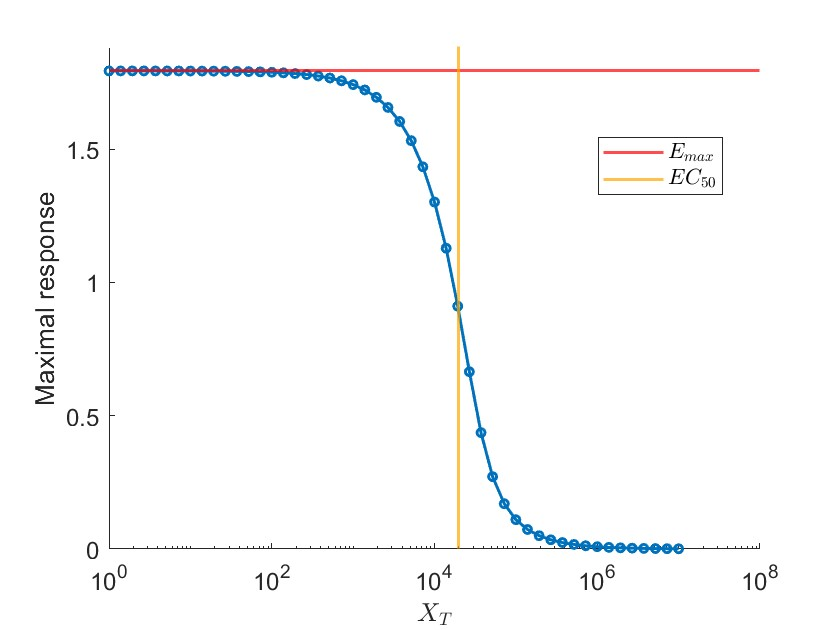
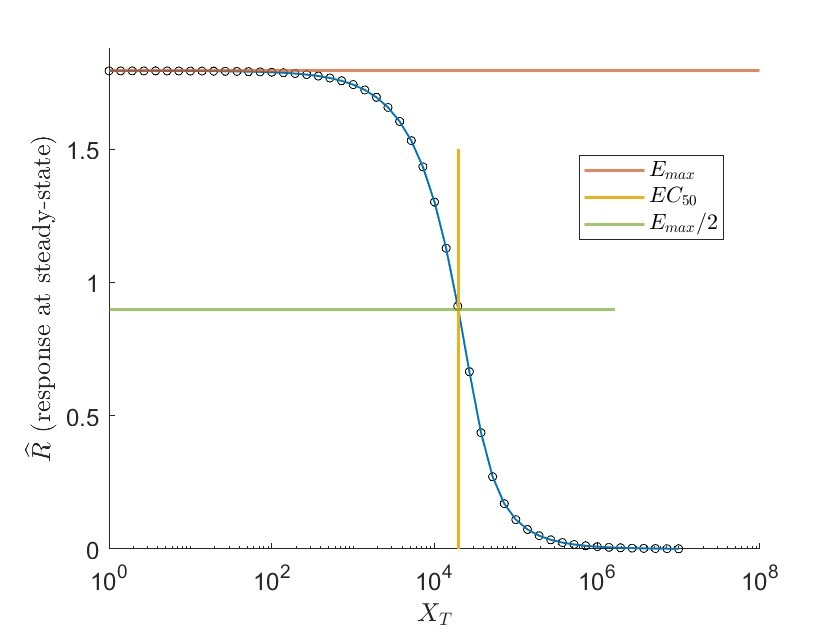
n

diff --git a/Sensitivity Analysis/Comprobaciones/KPC_Emax.m b/Sensitivity Analysis/Comprobaciones/KPC_Emax.m
@@ -315,18 +315,52 @@ legend([hLineH, hLineV, hLineH1], 'Interpreter', 'latex', 'Location', 'best');
 hold off;
 
 figure;
-semilogx(x0_values, TpTeoricoXT, '-', 'LineWidth', 1.5);
-set(gca, 'FontSize',12, 'FontName','Helvetica');
+semilogx(x0_values, max_Tp_values, 'o', ...
+    'MarkerSize', 4, ...                % Tamaño de marcadores un poco mayor
+    'MarkerEdgeColor', 'k');
 hold on;
+semilogx(x0_values, max_Tp_values, '-', ...
+    'LineWidth', 1, ...
+    'Color', [0 0.4470 0.7410]);        % Mismo color azul para la línea
+xlabel('$X_T$', 'Interpreter', 'latex', 'FontSize', 14, 'FontName', 'Helvetica');
+ylabel('$\widehat R$ (response at steady-state)', 'Interpreter', 'latex', 'FontSize', 12, 'FontName', 'Helvetica');
+set(gca, 'FontSize', 12, 'FontName', 'Helvetica');
+box off;
+% --- Líneas horizontales E_max y E_max/2 ---
+[~, idx_max] = max(max_Tp_values);
+maxVal = max_Tp_values(idx_max);
+half_val = maxVal/2;
+hLineH = yline(maxVal, ...
+    'Color', [0.8500 0.3250 0.0980], ... % naranja rojizo
+    'LineStyle', '-', ...
+    'LineWidth', 1.5, ...
+    'DisplayName', '$E_{max}$');
+hLineH1 = yline(half_val, ...
+    'Color', [0.4660 0.6740 0.1880], ... % verde
+    'LineStyle', '-', ...
+    'LineWidth', 1.5, ...
+    'DisplayName', '$E_{max}$/2');
+x_half = interp1(max_Tp_values, x0_values, half_val, 'spline');
+hLineV = xline(x_half, ...
+    'Color', [0.9290 0.6940 0.1250], ...  % naranja claro
+    'LineStyle', '-', ...
+    'LineWidth', 1.5, ...
+    'DisplayName', '$EC_{50}$');
 
-figure;
-semilogx(x0_values, max_Tp_valuesSteadyState, '-', 'LineWidth', 1.5);
-set(gca, 'FontSize',12, 'FontName','Helvetica');
-hold on;
-semilogx(x0_values, max_Tp_values, '-', 'LineWidth', 1.5);
+ylim([0 1.05 * maxVal]); 
+legend([hLineH, hLineV, hLineH1], 'Interpreter', 'latex', 'Location', 'best');
+hold off;
 
-
-
+% figure;
+% semilogx(x0_values, TpTeoricoXT, '-', 'LineWidth', 1.5);
+% set(gca, 'FontSize',12, 'FontName','Helvetica');
+% hold on;
+% 
+% figure;
+% semilogx(x0_values, max_Tp_valuesSteadyState, '-', 'LineWidth', 1.5);
+% set(gca, 'FontSize',12, 'FontName','Helvetica');
+% hold on;
+% semilogx(x0_values, max_Tp_values, '-', 'LineWidth', 1.5);
 
 CTparaTpmax = max_CT_values(idx_max);
 disp(['El valor de CT cuando Tp es max:', CTparaTpmax])
